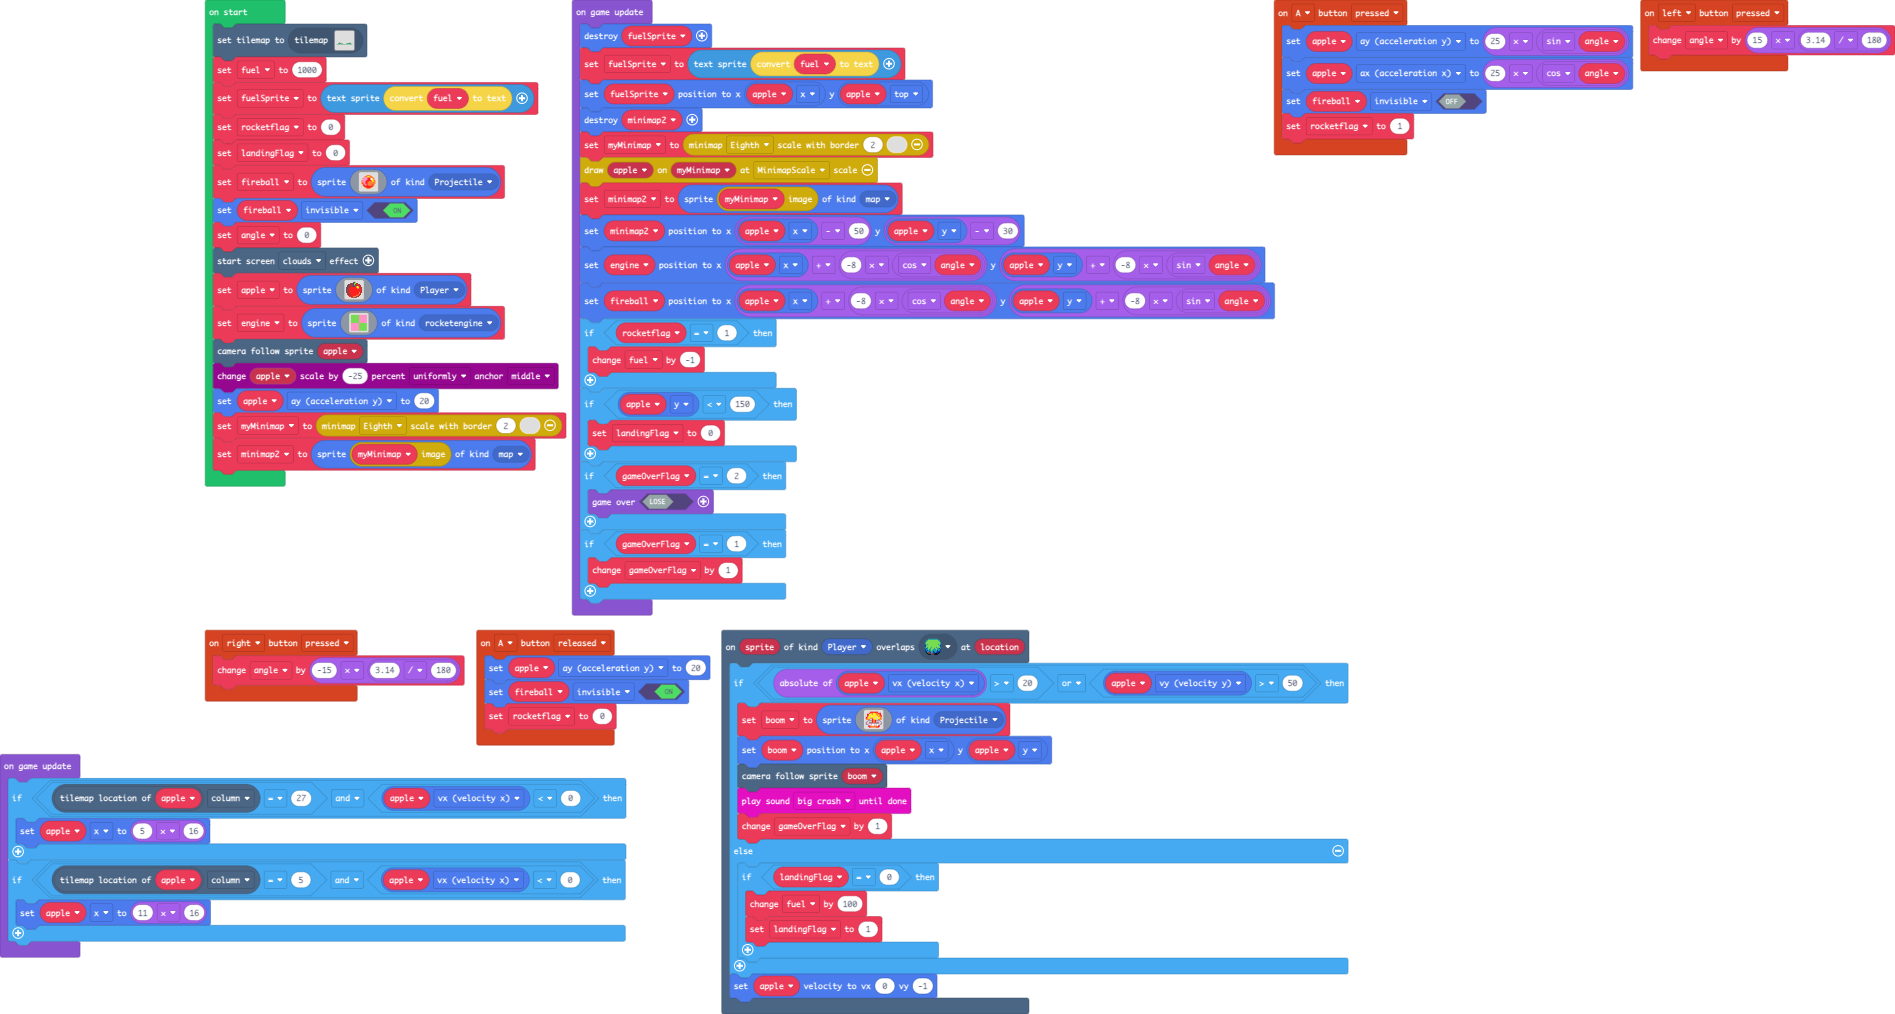
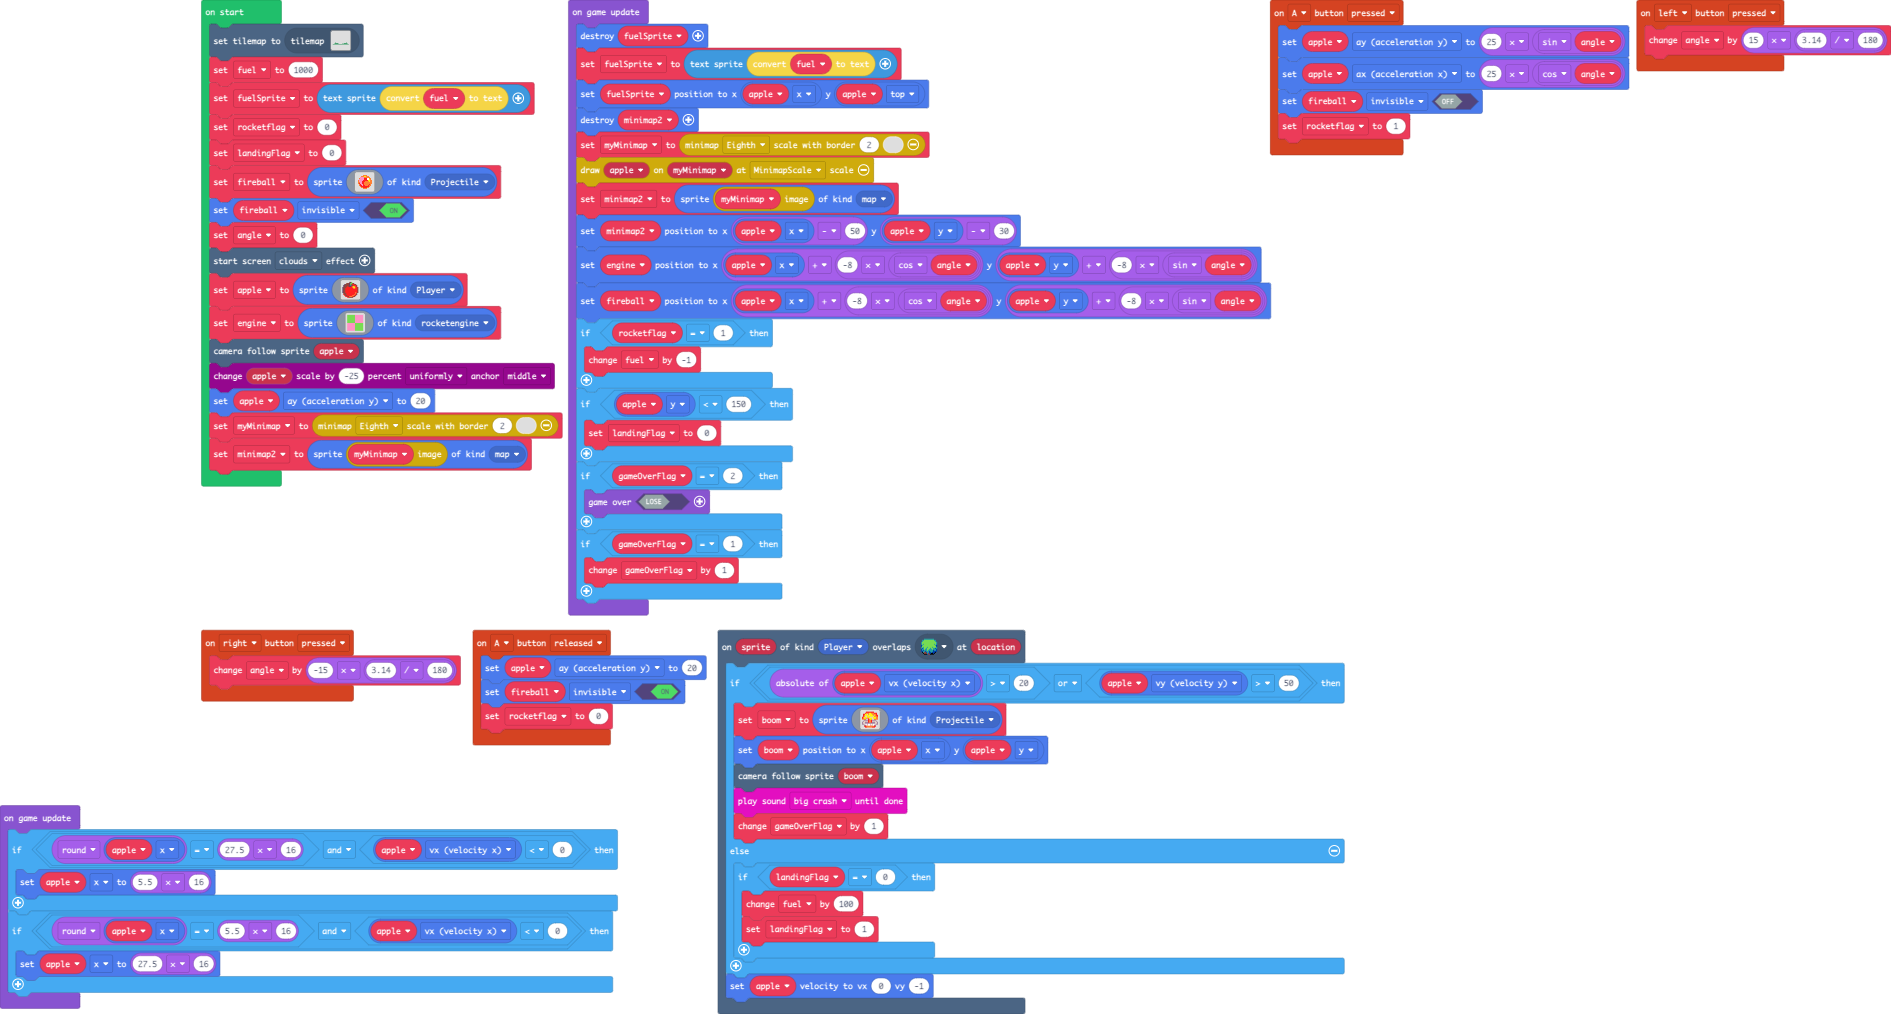
still working on wrapping

diff --git a/main.ts b/main.ts
@@ -136,10 +136,10 @@ game.onUpdate(function () {
     }
 })
 game.onUpdate(function () {
-    if (apple.tilemapLocation().column == 27 && apple.vx < 0) {
-        apple.x = 5 * 16
+    if (Math.round(apple.x) == 27.5 * 16 && apple.vx < 0) {
+        apple.x = 5.5 * 16
     }
-    if (apple.tilemapLocation().column == 5 && apple.vx < 0) {
-        apple.x = 11 * 16
+    if (Math.round(apple.x) == 5.5 * 16 && apple.vx < 0) {
+        apple.x = 27.5 * 16
     }
 })
